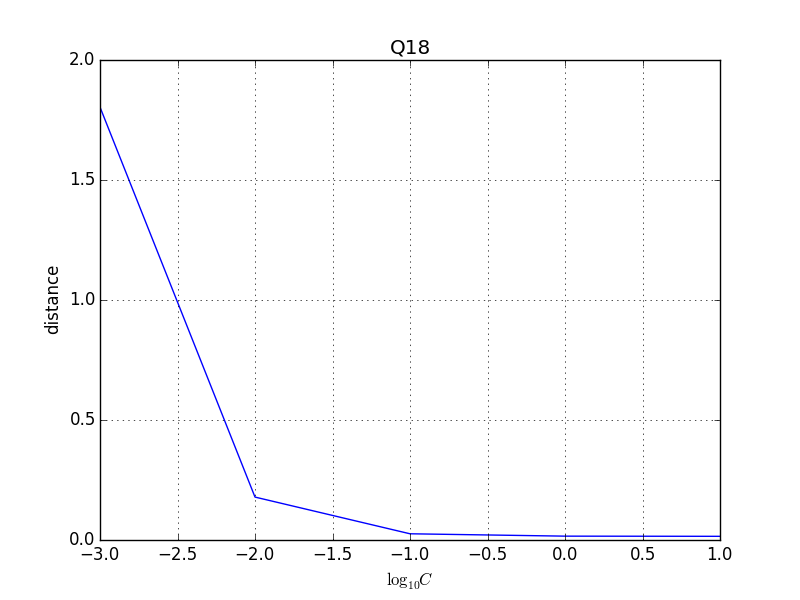
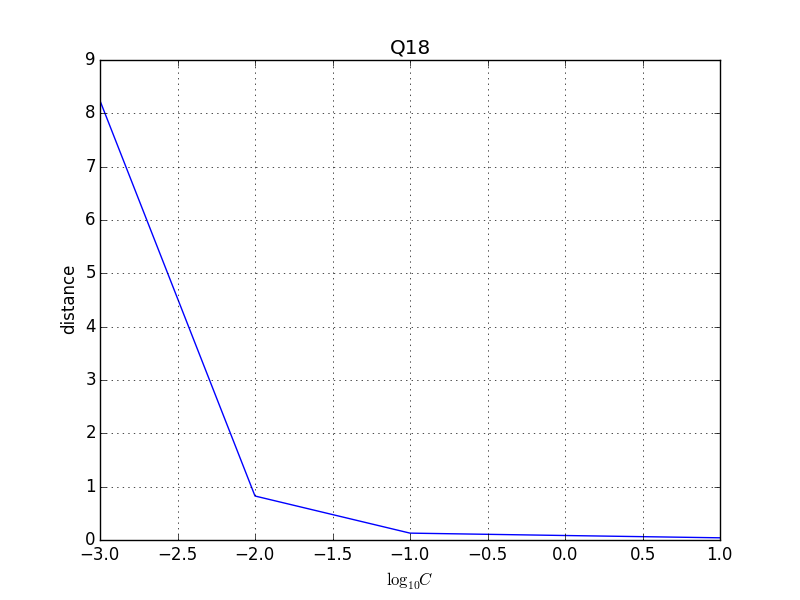
- HW5: version 1.2

diff --git a/Homework_5/ML_HW5_Programming/Q18.py b/Homework_5/ML_HW5_Programming/Q18.py
@@ -8,6 +8,13 @@ def digitTrans(y, digit):
     y[y == digit] = 1.0
     return y
 
+def gauKernel(x1, x2, gamma):
+    return np.exp(-1 * gamma * (np.linalg.norm(x1 - x2) ** 2))
+
+def svmMargin(supVec, dualCoef, gamma):
+    kerMat = np.matrix([[gauKernel(x1, x2, gamma) for x2 in supVec] for x1 in supVec])
+    return reduce(np.dot, [dualCoef, kerMat, dualCoef])
+
 def plotHist(x, y, xLabel, yLabel, title, width, isFloat):
     plt.title(str(title))
     plt.xlabel(str(xLabel))
@@ -21,6 +28,7 @@ def plotHist(x, y, xLabel, yLabel, title, width, isFloat):
 
 def main():
     DIGIT = 0
+    GAMMA = 100
 
     TRAIN18_FILE = 'hw5_train.dat'
     TRAIN18_DATA = np.loadtxt(TRAIN18_FILE, dtype=np.float)
@@ -31,11 +39,10 @@ def main():
     distList = []
     t0 = time.time()
     for cPower in range(-3, 2):
-        clf = svm.SVC(C=(10 ** cPower), kernel='rbf', gamma=100)
+        clf = svm.SVC(C=(10 ** cPower), kernel='rbf', gamma=GAMMA)
         clf.fit(x18, y18)
-        w    = clf.dual_coef_.dot(clf.support_vectors_)[0]
-        dist = 1 / np.sqrt((w ** 2).sum())
-        distList.append(dist)
+        wSquare = svmMargin(np.array(clf.support_vectors_), np.array(clf.dual_coef_[0]), GAMMA)
+        distList.append(1 / np.sqrt(wSquare.item(0)))
     plotHist(CList, distList, r"$\log_{10}C$", 'distance', "Q18", 1, False)
     t1 = time.time()
     print '========================================================='

diff --git a/Homework_5/Answer Sheet for Homework 5.tex b/Homework_5/Answer Sheet for Homework 5.tex
@@ -536,7 +536,7 @@ From this figure, we have
 \subsection*{Problem 18}
 
 \begin{align}
-\text{distance list}=\SBrackets{1.804, \SciNum{1.789}{-1}, \SciNum{2.591}{-2}, \SciNum{1.605}{-2}, \SciNum{1.534}{-2}}
+\text{distance list}=\SBrackets{8.237, \SciNum{8.248}{-1}, \SciNum{1.288}{-1}, \SciNum{8.416}{-2}, \SciNum{4.109}{-2}}
 \end{align}
 \begin{figure}[H]
 	\centering
